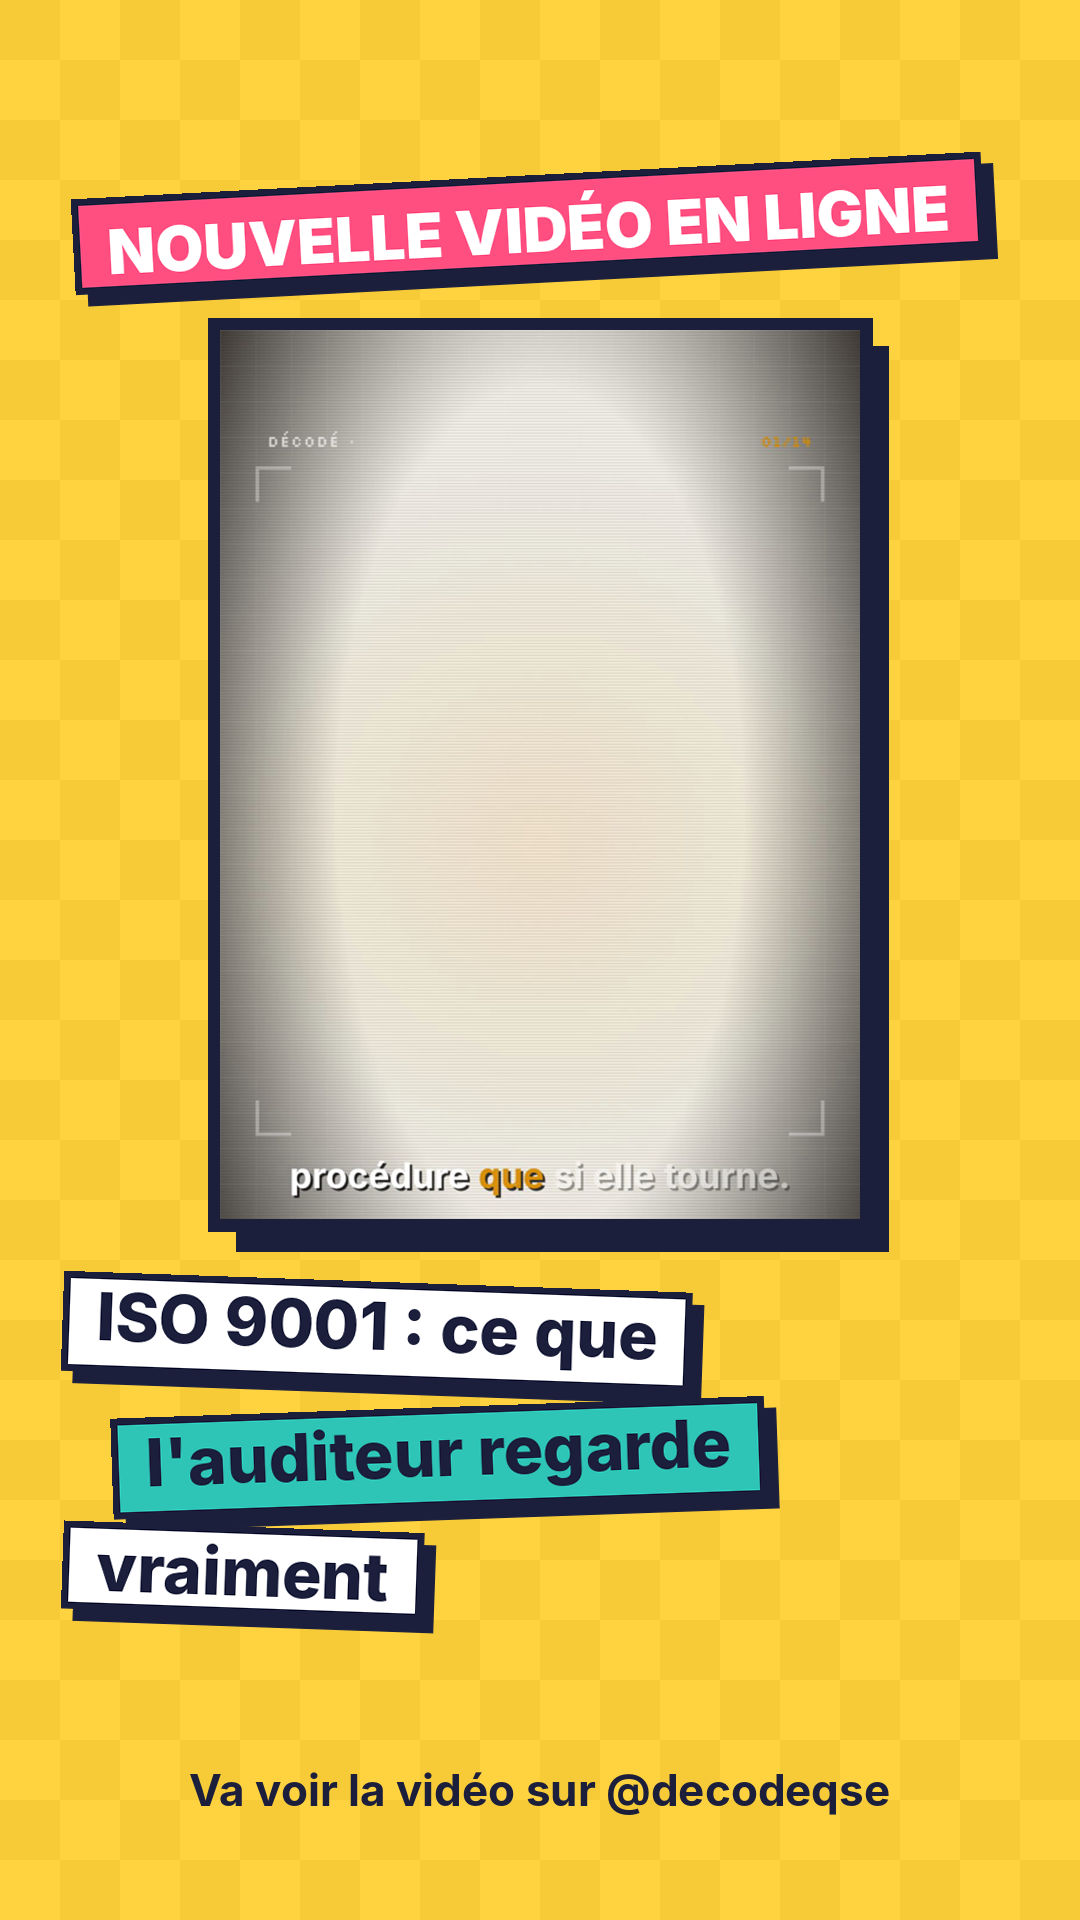
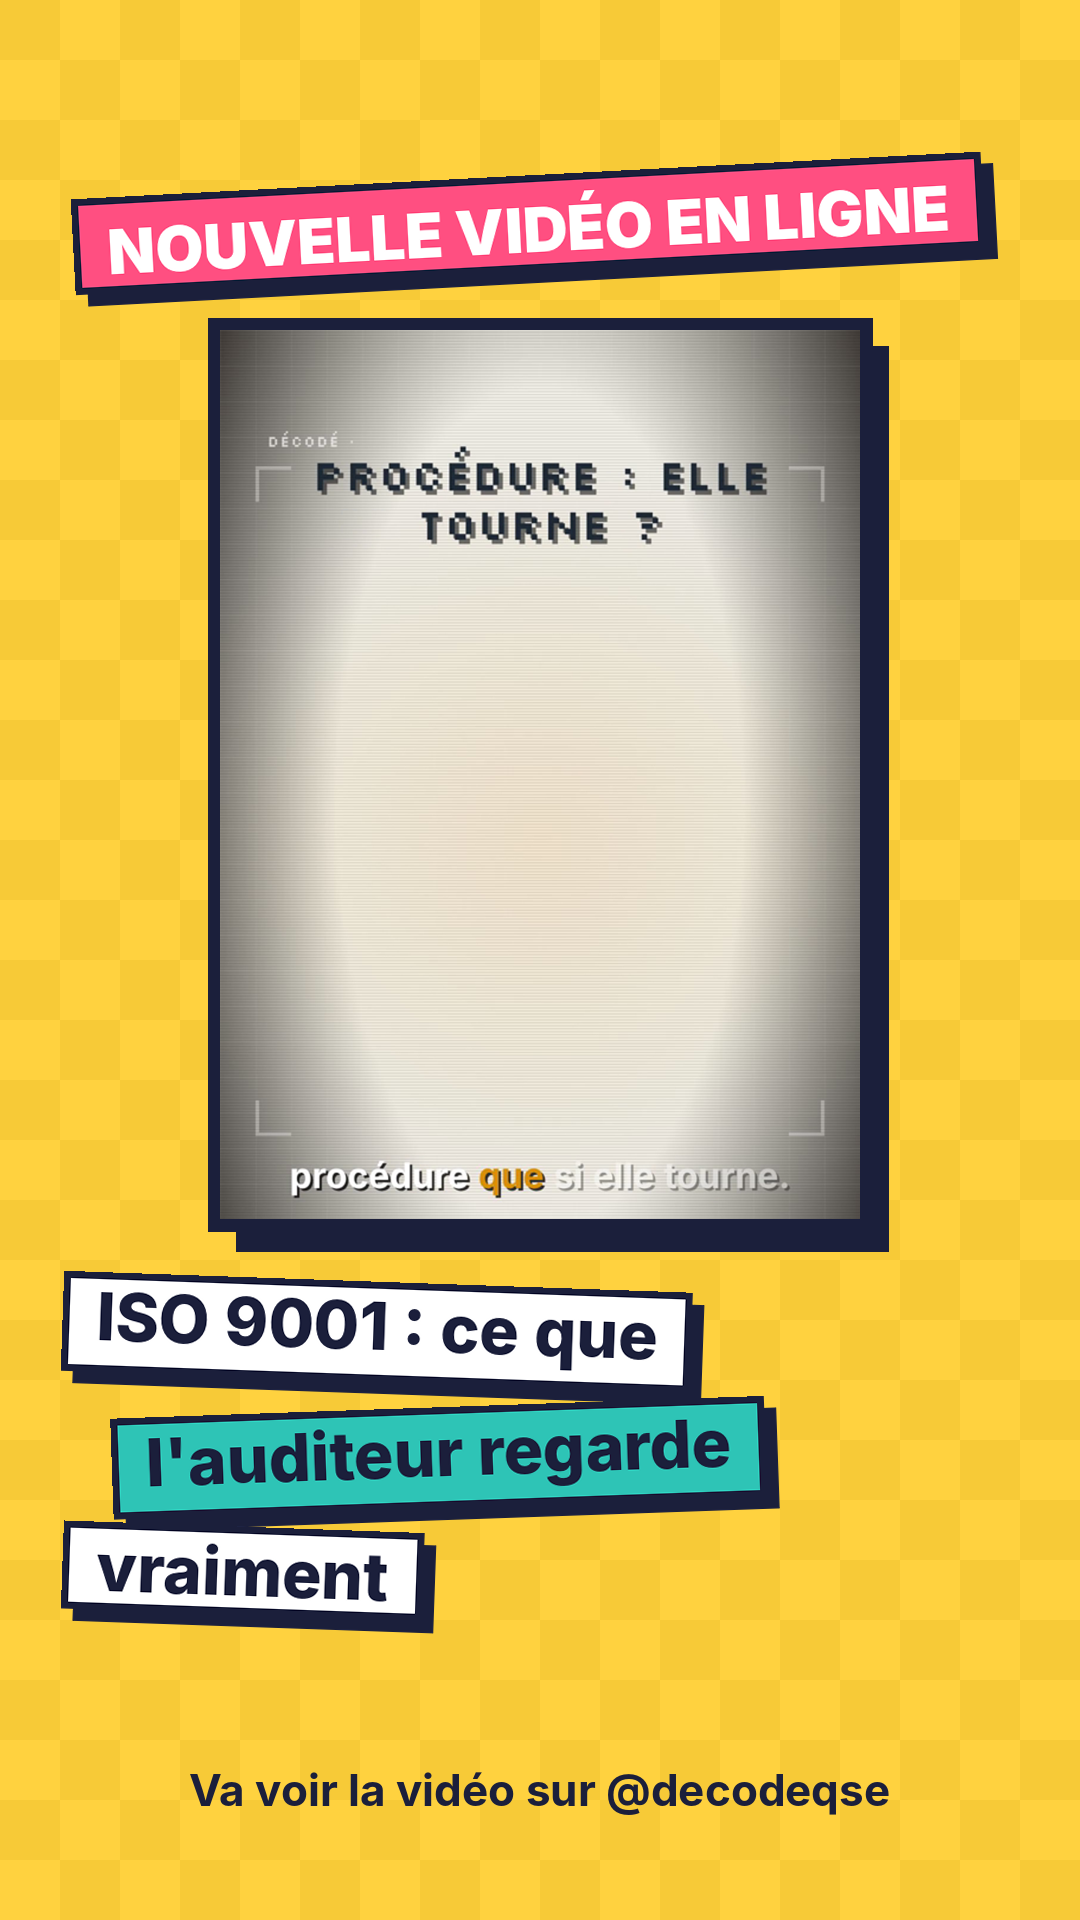
fix(rendu): planche sur toutes les scènes, titres et tampon selon la DA
- render.contact_sheet : toutes les scènes en grille de 7 colonnes (était limité à 8 en ligne)
- pixeldoc : taille des titres ajustée à la longueur du mot le plus long,
  tampon et confettis en couleur d'accent (plus de rouge), compteur retiré
- état : budgets du jour et story qhse régénérée

Claude-Session: https://claude.ai/code/session_0113WyTbLr2CkSvctx59Nf7v

Changed region(s): [[0.275, 0.2188, 0.7333, 0.2812]]

diff --git a/video/src/pixeldoc.tsx b/video/src/pixeldoc.tsx
@@ -25,9 +25,11 @@ const TitrePixel: React.FC<{texte?: string; mot?: string; c: C; taille?: number;
   const net = (x: string) => x.toLowerCase().replace(/[^\p{L}\d%€]/gu, '');
   const forts = new Set((mot ?? '').split(/\s+/).map(net).filter(Boolean));
   const n = Math.floor(interpolate(f, [2, 2 + texte.length * 0.7], [0, texte.length], {extrapolateLeft: 'clamp', extrapolateRight: 'clamp'}));
+  const motLong = Math.max(8, ...texte.split(' ').map((w) => w.length));
+  const fs = Math.min(taille, Math.min(64, Math.floor(860 / (0.8 * motLong))));
   let vu = 0;
   return (
-    <div style={{position: 'absolute', left: 70, right: 70, top, textAlign: 'center', fontFamily: fontPixel, fontSize: taille, lineHeight: 1.12, textTransform: 'uppercase', textShadow: '6px 6px 0 rgba(0,0,0,0.55)'}}>
+    <div style={{position: 'absolute', left: 70, right: 70, top, textAlign: 'center', fontFamily: fontPixel, fontSize: fs, lineHeight: 1.12, textTransform: 'uppercase', textShadow: '6px 6px 0 rgba(0,0,0,0.55)'}}>
       {texte.split(' ').map((m, i) => {
         const debut = vu;
         vu += m.length + 1;
@@ -154,7 +156,7 @@ const Jauge: React.FC<{s: Ex<'pd_jauge'>; c: C}> = ({s, c}) => {
       <svg viewBox="0 0 200 130" width={760} height={494} style={{position: 'absolute', left: 160, top: 560}} shapeRendering="crispEdges">
         {Array.from({length: 24}).map((_, k) => {
           const ang = ((-120 + k * 10.4) * Math.PI) / 180;
-          const col = k < 8 ? '#3FA34D' : k < 16 ? JAUNE : '#E3242B';
+          const col = k < 8 ? '#3FA34D' : k < 16 ? JAUNE : c.accent;
           return <rect key={k} x={100 + Math.sin(ang) * 80 - 4} y={110 - Math.cos(ang) * 80 - 4} width={8} height={8} fill={col} />;
         })}
         <g transform={`rotate(${a} 100 110)`}>
@@ -174,7 +176,7 @@ const Tampon: React.FC<{s: Ex<'pd_tampon'>; c: C}> = ({s, c}) => {
     <>
       <ObjetPixel src={s.src} c={c} />
       <div style={{position: 'absolute', left: 0, right: 0, top: 700, display: 'flex', justifyContent: 'center', transform: `rotate(-12deg) scale(${2.2 - 1.2 * p})`, opacity: p}}>
-        <span style={{fontFamily: fontPixel, fontSize: 96, color: '#E3242B', border: '12px solid #E3242B', padding: '10px 34px', background: 'rgba(0,0,0,0.25)'}}>{s.tampon}</span>
+        <span style={{fontFamily: fontPixel, fontSize: 96, color: c.accent, border: '12px solid ' + c.accent, padding: '10px 34px', background: 'rgba(0,0,0,0.25)'}}>{s.tampon}</span>
       </div>
     </>
   );
@@ -273,7 +275,6 @@ export const CadrePixelDoc: React.FC<{scene: Scene; theme: Theme; index: number;
       {coin({left: 60, top: 1300, borderLeftWidth: 6, borderBottomWidth: 6})}
       {coin({right: 60, top: 1300, borderRightWidth: 6, borderBottomWidth: 6})}
       <div style={{position: 'absolute', left: 80, top: 170, fontFamily: fontPixel, fontSize: 26, color: 'rgba(255,255,255,0.75)', letterSpacing: 2}}>DÉCODÉ · {theme.bandeau ?? ''}</div>
-      <div style={{position: 'absolute', right: 80, top: 170, fontFamily: fontPixel, fontSize: 26, color: c.accent}}>{String(index + 1).padStart(2, '0')}/{String(total).padStart(2, '0')}</div>
       {['pd_versus', 'pd_chiffre'].includes(scene.type) ? <Rayons c={c} /> : null}
       <MouvementPixelDoc type={scene.type}>{children}</MouvementPixelDoc>
       {scene.type === 'pd_versus' ? <Flash a={12} /> : scene.type === 'pd_tampon' ? <Flash a={16} /> : null}

diff --git a/pipeline/render.py b/pipeline/render.py
@@ -282,13 +282,13 @@ def frames_per_scene(spec: dict, mp4: Path) -> list[Path]:
 
 def contact_sheet(images: list[Path], out: Path) -> Path:
     """Planche d'aperçu : les images des scènes côte à côte (affichée dans l'e-mail de validation)."""
-    imgs = images[:8]
+    imgs = images
+    n, cols, h = len(imgs), min(7, len(imgs)), 427
     inputs = []
     for i in imgs:
         inputs += ["-i", str(i)]
-    filt = "".join(f"[{k}:v]scale=240:-1[s{k}];" for k in range(len(imgs)))
-    filt += "".join(f"[s{k}]" for k in range(len(imgs))) + f"hstack=inputs={len(imgs)}"
-    if len(imgs) == 1:
-        filt = "[0:v]scale=240:-1"
+    filt = "".join(f"[{k}:v]scale=240:{h}[s{k}];" for k in range(n))
+    filt += "".join(f"[s{k}]" for k in range(n))
+    filt += f"xstack=inputs={n}:layout=" + "|".join(f"{(k % cols) * 240}_{(k // cols) * h}" for k in range(n))
     subprocess.run(["ffmpeg", "-loglevel", "error", "-y", *inputs, "-filter_complex", filt, str(out)], check=True)
     return out
